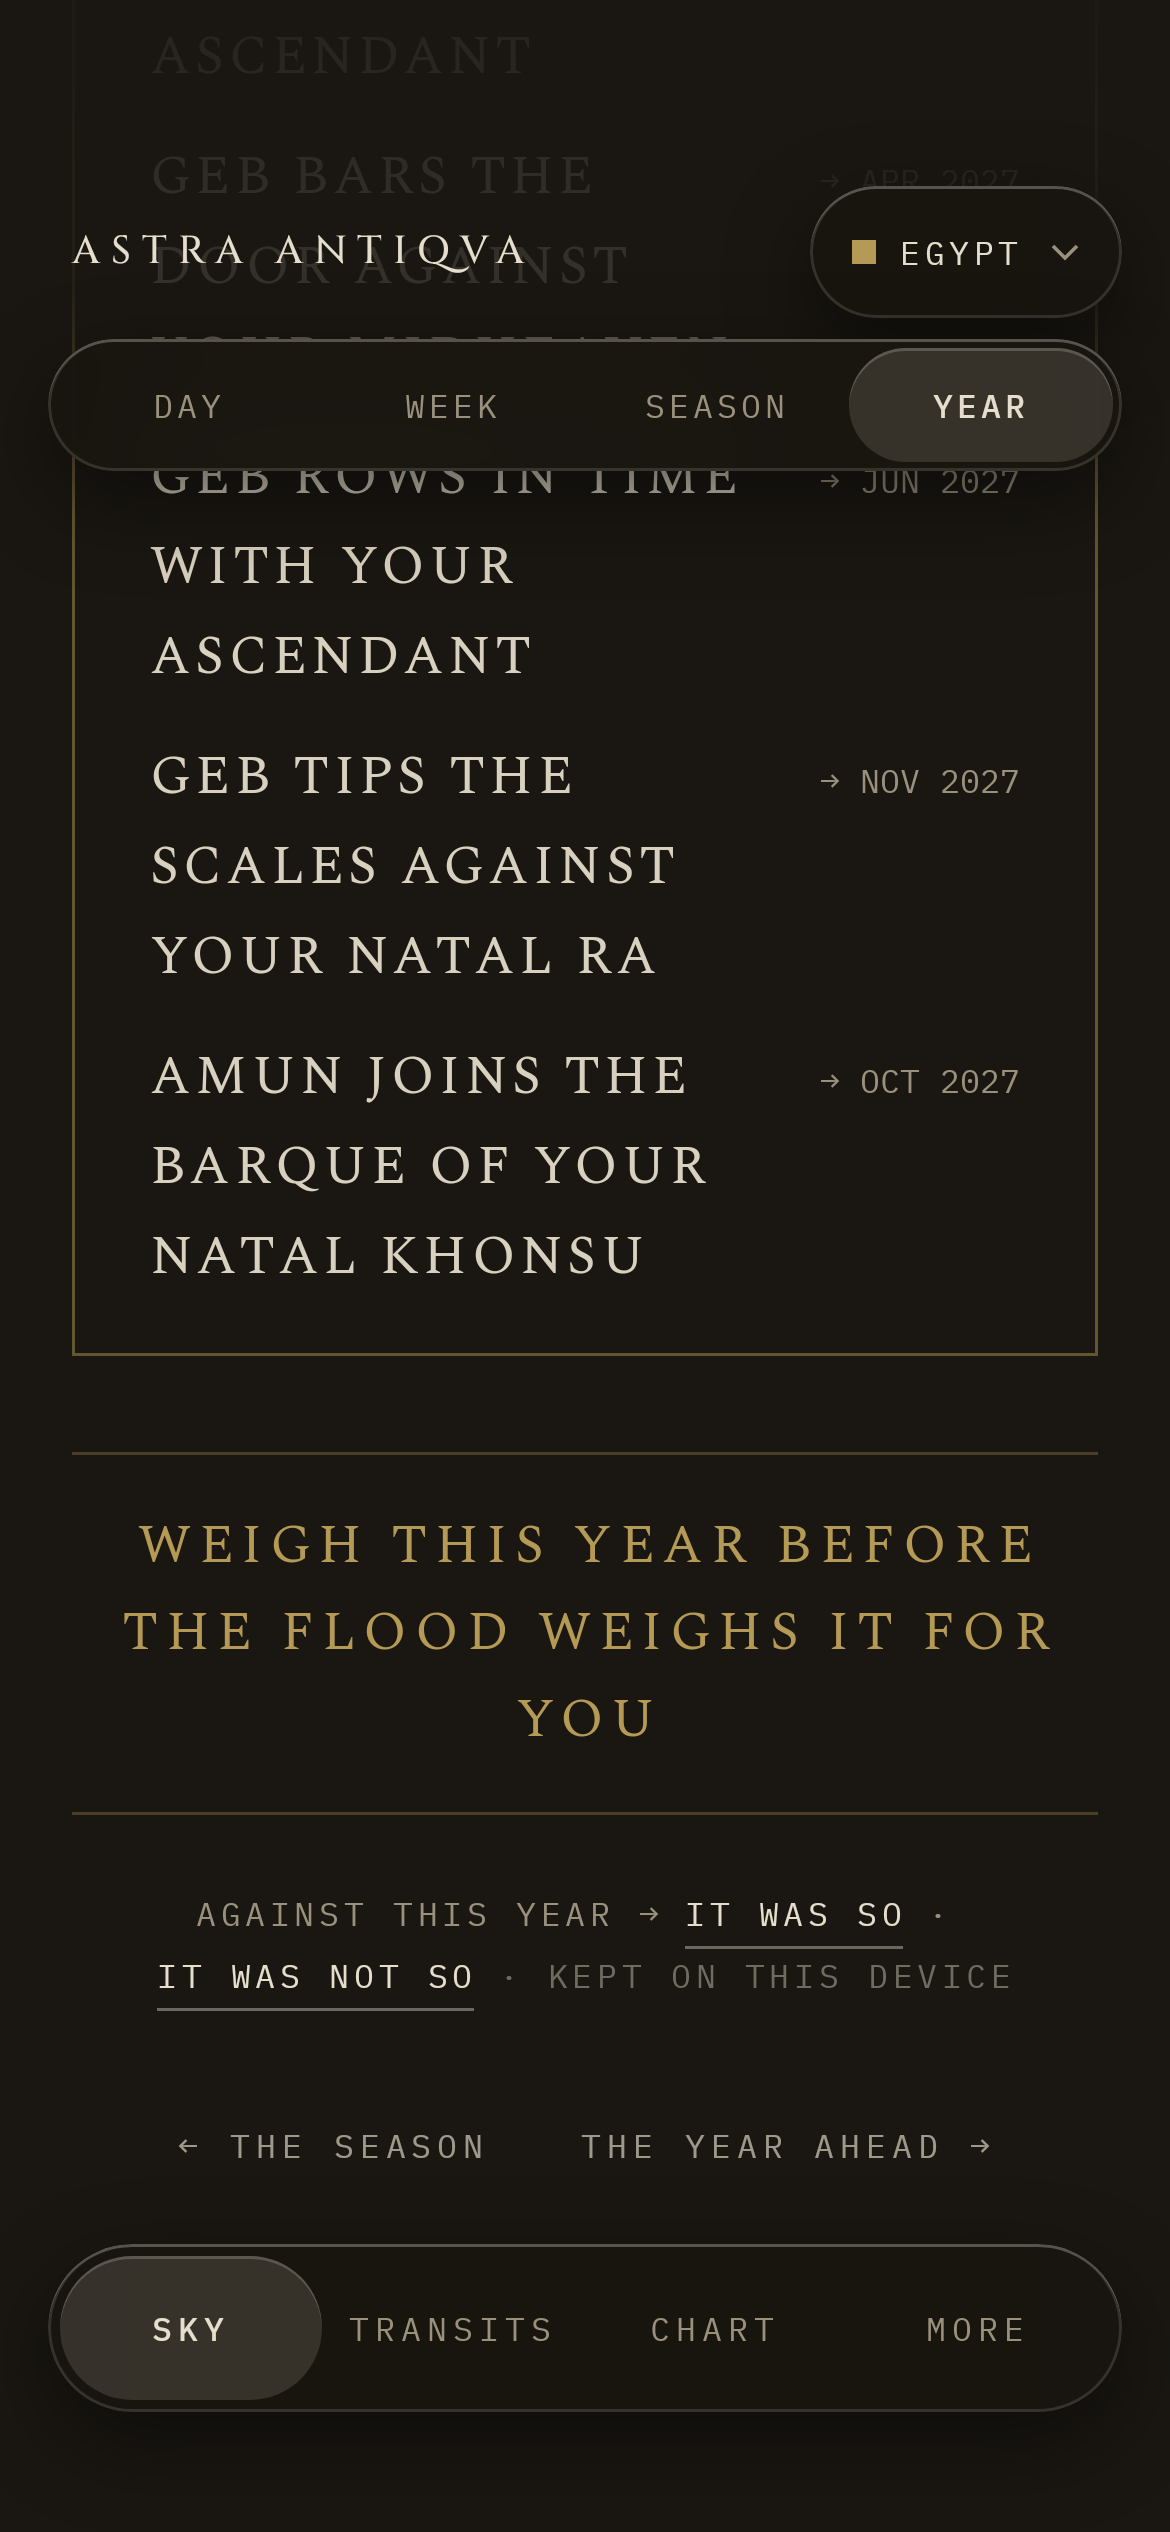
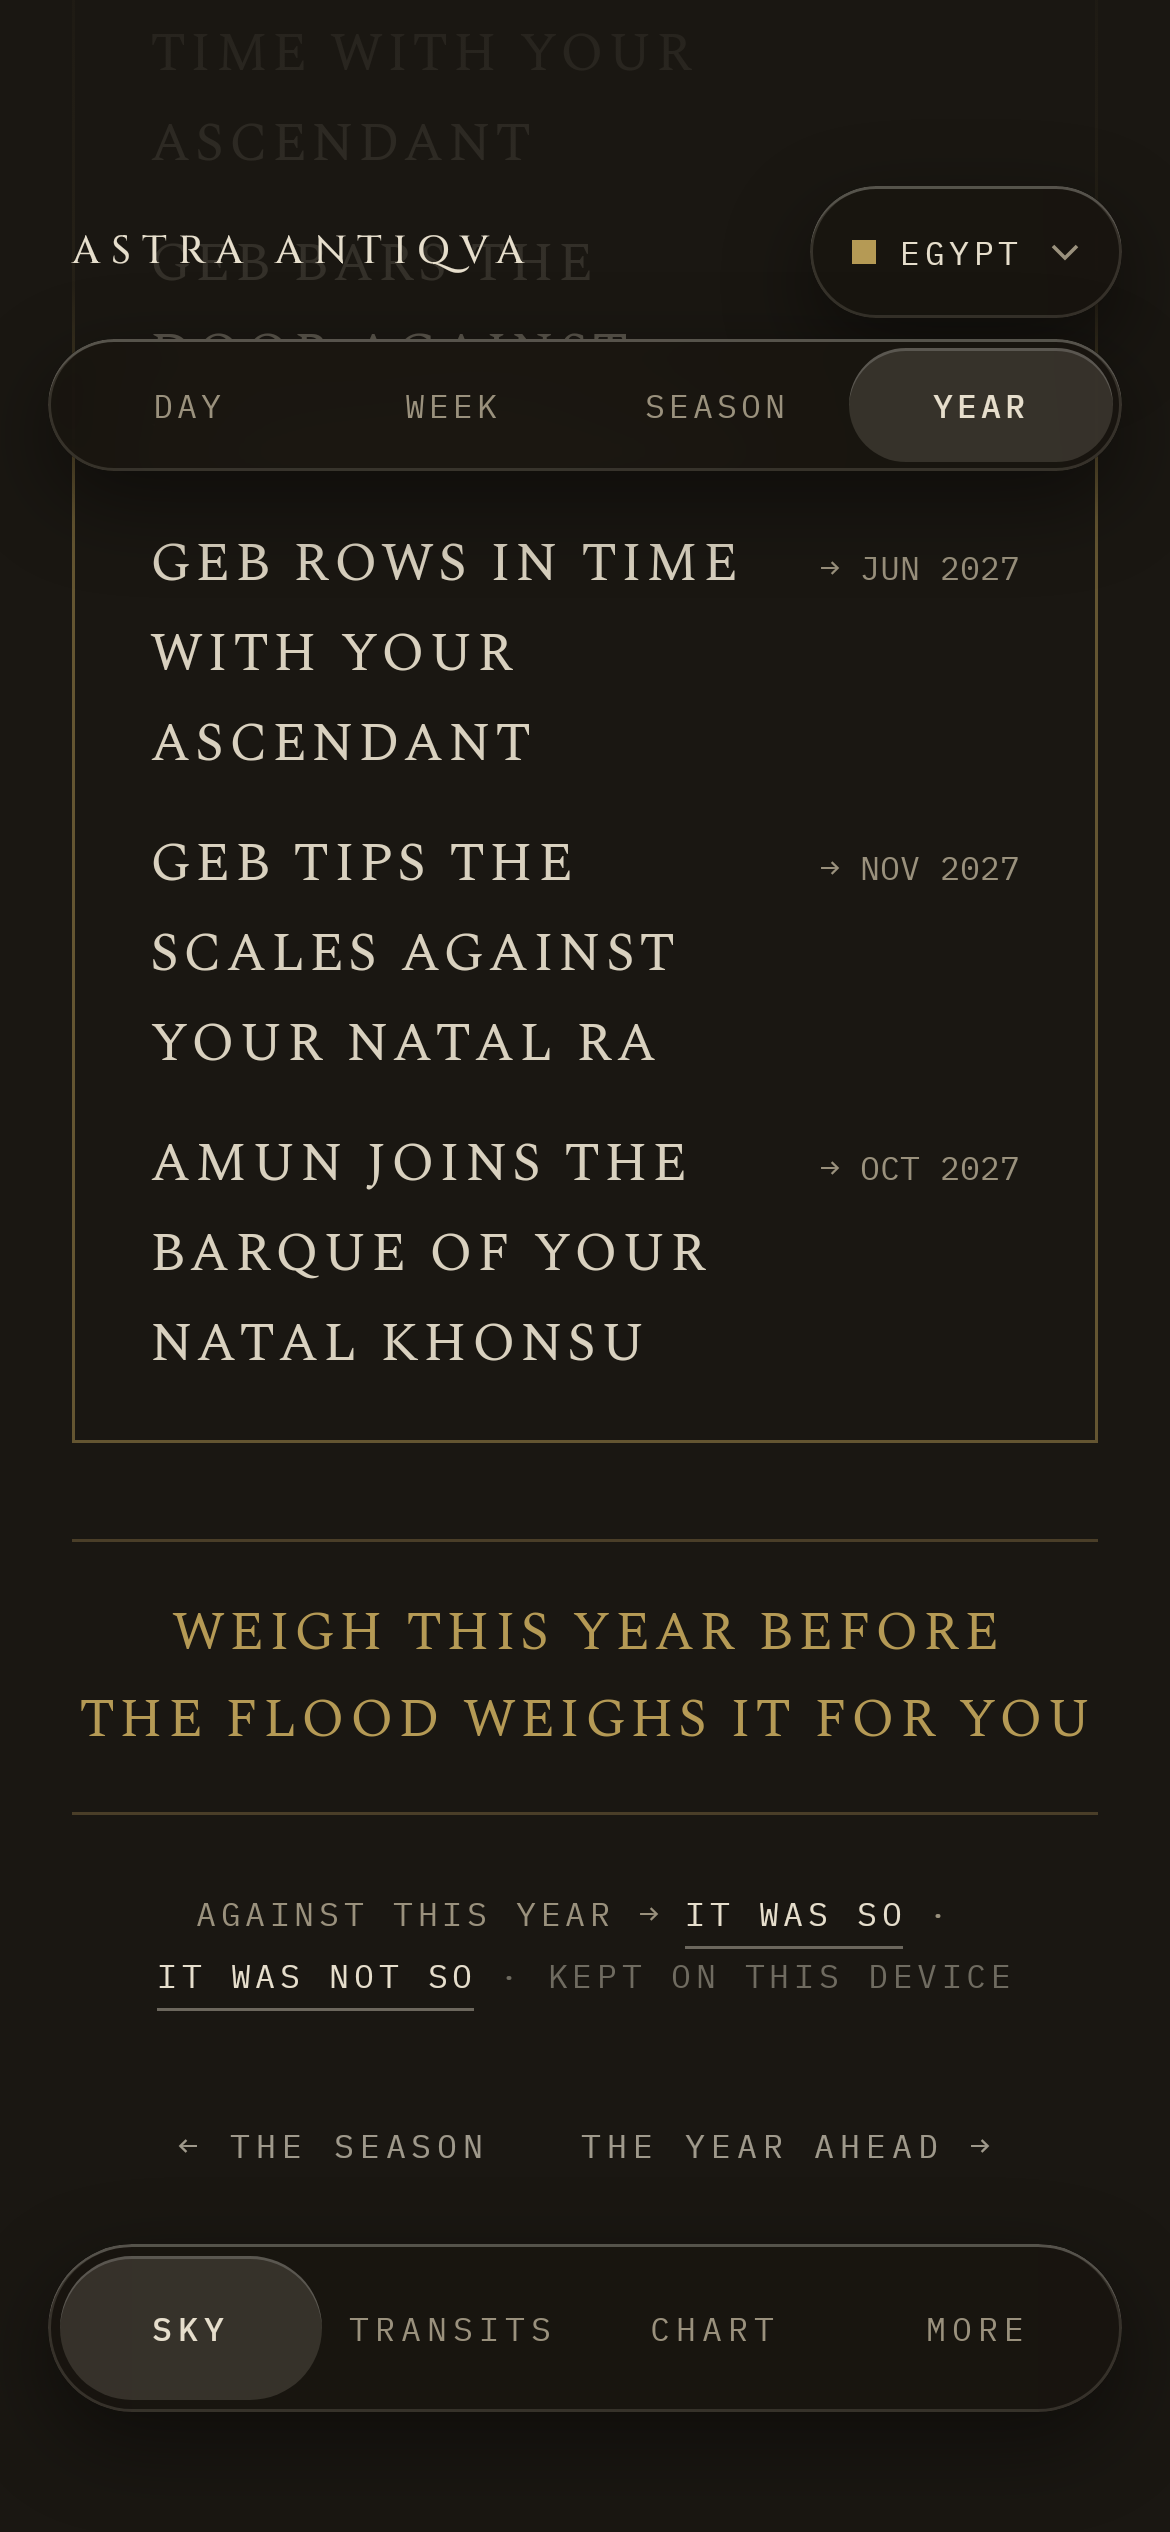
fix(android): Sky Year votive keeps its two lines at phone width
Tracking steps down from web's .14em (floor .04em) until each catalog line
fits, per Matthew's popup. Records his step 5 answers.

diff --git a/android/app/src/main/java/com/astra/antiqua/ui/screens/SkyYearScreen.kt b/android/app/src/main/java/com/astra/antiqua/ui/screens/SkyYearScreen.kt
@@ -36,6 +36,9 @@ import androidx.compose.ui.semantics.heading
 import androidx.compose.ui.semantics.semantics
 import androidx.compose.ui.text.SpanStyle
 import androidx.compose.ui.text.TextStyle
+import androidx.compose.ui.text.rememberTextMeasurer
+import androidx.compose.ui.text.TextMeasurer
+import androidx.compose.foundation.layout.BoxWithConstraints
 import androidx.compose.ui.text.buildAnnotatedString
 import androidx.compose.ui.text.font.FontWeight
 import androidx.compose.ui.text.style.TextAlign
@@ -387,15 +390,24 @@ private fun WebYearSections(year: SkyYear, slots: SlotMap, onNavigate: (String) 
             }
         }
         // web's Votive: a rule above and below, 16 inside them, centred, display-xs 18/1.6 at .14em in the accent.
+        // Web has 560 for it; at phone width the tracking tightens (to .04em at most) until each of the catalog's
+        // lines fits on one (Matthew's popup, 2026-11-01, "Tighten tracking").
         Column(side.padding(top = 32.dp).testTag("year-votive").dpadStop()) {
             Box(Modifier.fillMaxWidth().height(1.dp).background(Rule))
-            Text(
-                slots.text("year.votive"),
-                style = TextStyle(fontFamily = display, fontSize = 18.sp, lineHeight = 18.sp * 1.6f, letterSpacing = 0.14.em, lineHeightStyle = CssLeading),
-                color = accent,
-                textAlign = TextAlign.Center,
-                modifier = Modifier.fillMaxWidth().padding(vertical = 16.dp),
-            )
+            BoxWithConstraints(Modifier.fillMaxWidth().padding(vertical = 16.dp)) {
+                val votive = slots.text("year.votive")
+                val base = TextStyle(fontFamily = display, fontSize = 18.sp, lineHeight = 18.sp * 1.6f, letterSpacing = 0.14.em, lineHeightStyle = CssLeading)
+                val measurer = rememberTextMeasurer()
+                val width = constraints.maxWidth
+                val tracking = remember(votive, width, base) { votiveTracking(measurer, votive, base, width) }
+                Text(
+                    votive,
+                    style = base.copy(letterSpacing = tracking.em),
+                    color = accent,
+                    textAlign = TextAlign.Center,
+                    modifier = Modifier.fillMaxWidth(),
+                )
+            }
             Box(Modifier.fillMaxWidth().height(1.dp).background(Rule))
         }
     } else if (slots.has("year.noChart")) {
@@ -531,4 +543,19 @@ private fun SpineRow(row: YearSpineRow, display: androidx.compose.ui.text.font.F
         )
         Text(row.end, style = mono(11.sp, 1.65f, 0f), color = Dim, softWrap = false, modifier = Modifier.alignByBaseline())
     }
+}
+
+/**
+ * The widest tracking, from web's .14em down to .04em in steps of .01, at which every line of [text] fits in
+ * [maxWidth] px; .04em when none does (the line then wraps as web's would).
+ */
+internal fun votiveTracking(measurer: TextMeasurer, text: String, style: TextStyle, maxWidth: Int): Float {
+    val lines = text.split('\n')
+    var tracking = 0.14f
+    while (tracking > 0.04f + 1e-4f) {
+        val s = style.copy(letterSpacing = tracking.em)
+        if (lines.all { measurer.measure(it, s, softWrap = false).size.width <= maxWidth }) return tracking
+        tracking -= 0.01f
+    }
+    return 0.04f
 }

diff --git a/android/app/src/test/java/com/astra/antiqua/ui/screens/SkyYearScreenshotTest.kt b/android/app/src/test/java/com/astra/antiqua/ui/screens/SkyYearScreenshotTest.kt
@@ -302,6 +302,11 @@ class SkyYearScreenshotTest {
         }
         note("sky-year-end page scrolls to %.1f".format(state.maxValue / density))
         assertGaps("sky-year-end", footGaps(withChart = true))
+        // The votive keeps the catalog's two lines at 342 (Matthew, 2026-11-01): a third line adds 28.8 to the
+        // 121.0 it measured with "YOU" alone.
+        val votive = box("year-votive")
+        note("sky-year-end year-votive height %.1f (three lines 121.0)".format(votive.h))
+        assertTrue("the votive wrapped: $votive", votive.h < 105f)
         compose.onNodeWithText("WEIGH THIS YEAR BEFORE\nTHE FLOOD WEIGHS IT FOR YOU").assertExists()
         compose.onNodeWithText("THE YEAR’S LONG TRANSITS · ITS SPINE").assertExists()
         compose.onNodeWithText("GEB TIPS THE SCALES AGAINST YOUR NATAL RA", useUnmergedTree = true).assertExists()

diff --git a/docs/design/android-glass.md b/docs/design/android-glass.md
@@ -583,3 +583,12 @@ Tags: FACT names its source; INFERENCE is a judgment; CANNOT CONFIRM is open.
   "local" both ways); `SkyEvents` ingress search to 60 s (inherited from step 4).
 - FACT (local, 2026-11-01): `./gradlew compileDebugSources testDebugUnitTest` 299 tests, 0 failures (279 before
   step 5).
+
+### Matthew's answers on Sky Year (popup, 2026-11-01, after the ten renders were shown in the chat)
+
+- FACT: the votive "Tighten tracking"; the spine headlines "Leave as built"; TODAY "Keep web's" (turnings from
+  today only); step 5 "Approved, step 6 next".
+- FACT (`SkyYearScreen.kt` `votiveTracking`, `SkyYearScreenshotTest.skyYearEnd`): the votive's tracking steps down
+  from web's .14em by .01 (floor .04em) until each of the catalog's lines fits; at 342 Egypt's votive takes two
+  lines, 92.0 tall against 121.0 before. Local: 299 tests, 0 failures.
+- Next: step 6, Transits, in a fresh session; push and PR on Matthew's word.

diff --git a/HANDOFF.md b/HANDOFF.md
@@ -217,5 +217,5 @@ CANNOT CONFIRM: none recorded in this repo; the owner has named none.
 - FACT (`ScreenGoldenTest`, node check of `web/src`): the 10 year goldens and the page's prose equal web's.
 - FACT (review, one Opus reviewer): nothing Critical; one Important (spine links) and the Minors fixed in two rounds.
 - FACT (local, 2026-11-01): `./gradlew compileDebugSources testDebugUnitTest` 299 tests, 0 failures (279 before).
-- Pending: Matthew's popup on step 5 (the votive and spine wraps, TODAY's place, approval); push and PR on his word.
-  Next: step 6, Transits.
+- FACT (Matthew's popup, 2026-11-01): votive tracking tightened to fit two lines (built, 299/0); spine headlines
+  and TODAY kept as built; Sky Year approved. Next: step 6, Transits, in a fresh session; push and PR on his word.
